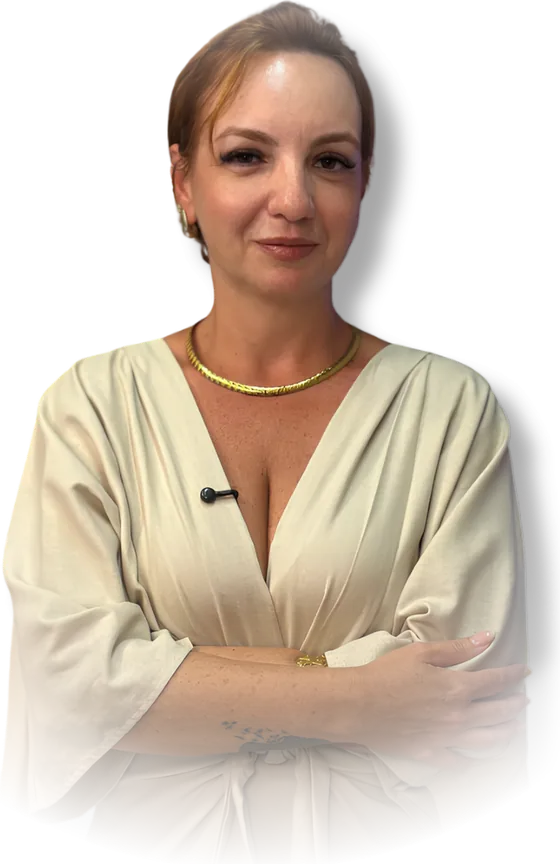
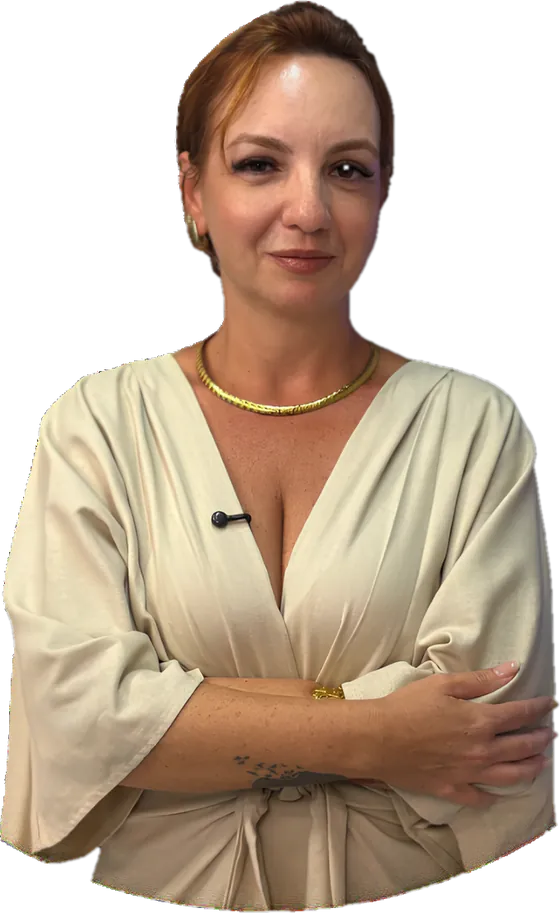
Foto da Dra. opaca (original), sem fundo aparecendo pelos braços
Claude-Session: https://claude.ai/code/session_01E7j3dWTr6vaPiRrkmqYq1L

diff --git a/index.html b/index.html
@@ -167,7 +167,7 @@ h3{font-size:22px;line-height:1.3}
   .hero .acoes .btn{flex:1 1 220px}
   .hero .wrap{padding-top:0;gap:var(--e3)}
   .retrato{order:-1;height:auto;min-height:0;align-items:flex-end;margin-inline:-16px;border-radius:0;padding-top:var(--e4)}
-  .retrato::after{height:10%}
+  .retrato::after{height:16%}
   .retrato img{width:min(82%,340px)}
   .hero .texto{padding-bottom:var(--e5)}
   .hero .selo{margin-top:0}
@@ -450,7 +450,7 @@ input[aria-invalid=true]{border-color:#E39A82}
       </div>
     </div>
     <figure class="retrato">
-      <img src="img/dra-sm.webp" srcset="img/dra-sm.webp 560w, img/dra.webp 713w" sizes="(min-width: 900px) 40vw, 80vw" width="713" height="1100" alt="Dra. Tathiana Cairo, fisioterapeuta, de braços cruzados e sorrindo">
+      <img src="img/dra-sm.webp" srcset="img/dra-sm.webp 560w, img/dra.webp 713w" sizes="(min-width: 900px) 40vw, 80vw" width="713" height="1162" alt="Dra. Tathiana Cairo, fisioterapeuta, de braços cruzados e sorrindo">
     </figure>
   </div>
 </section>
